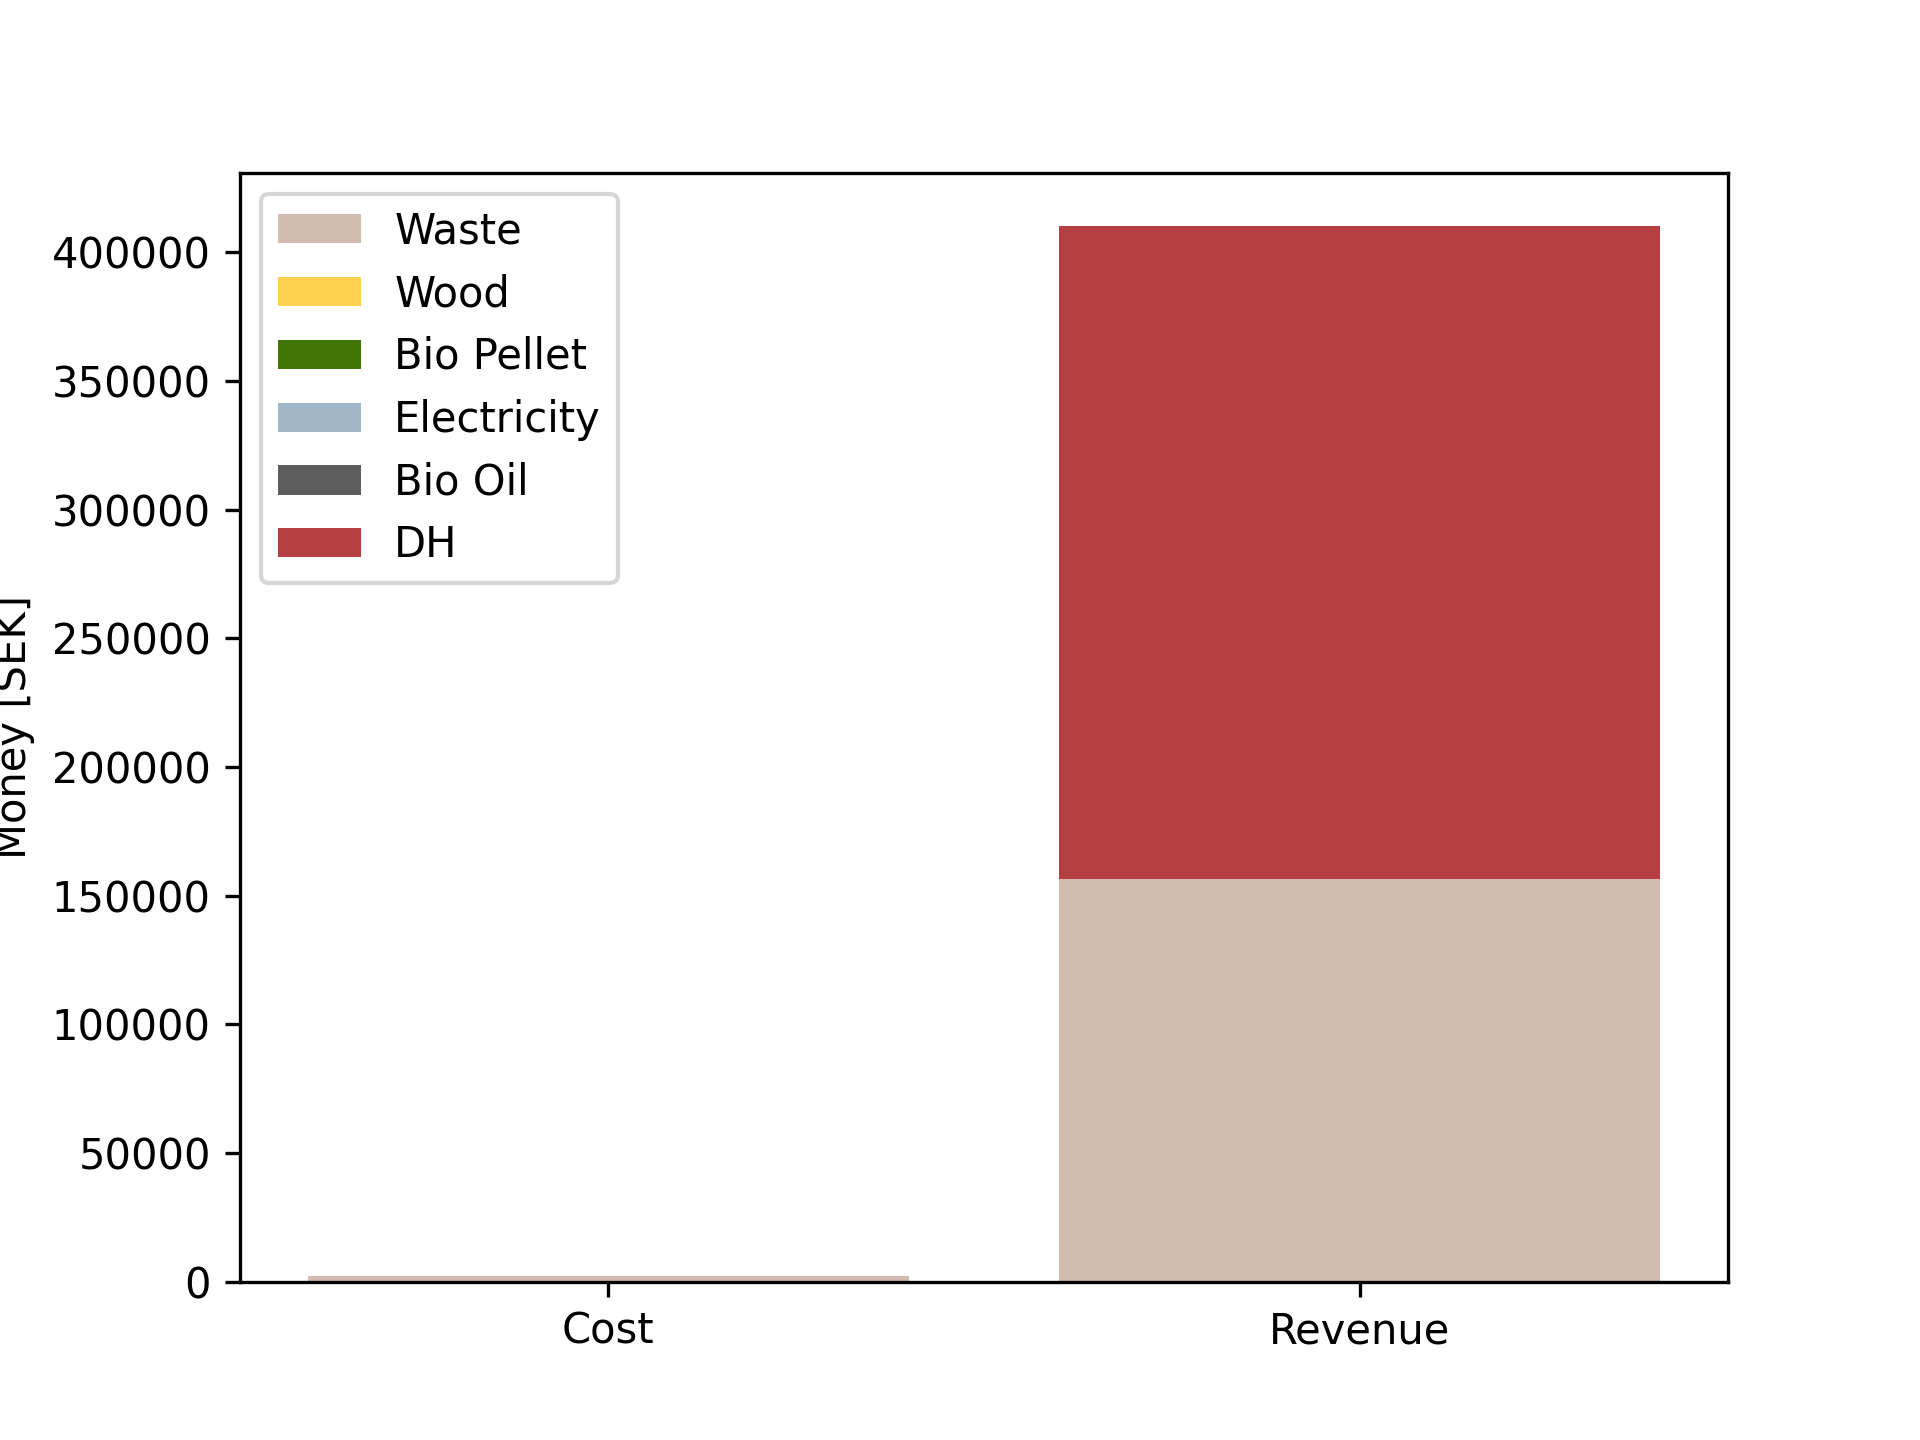
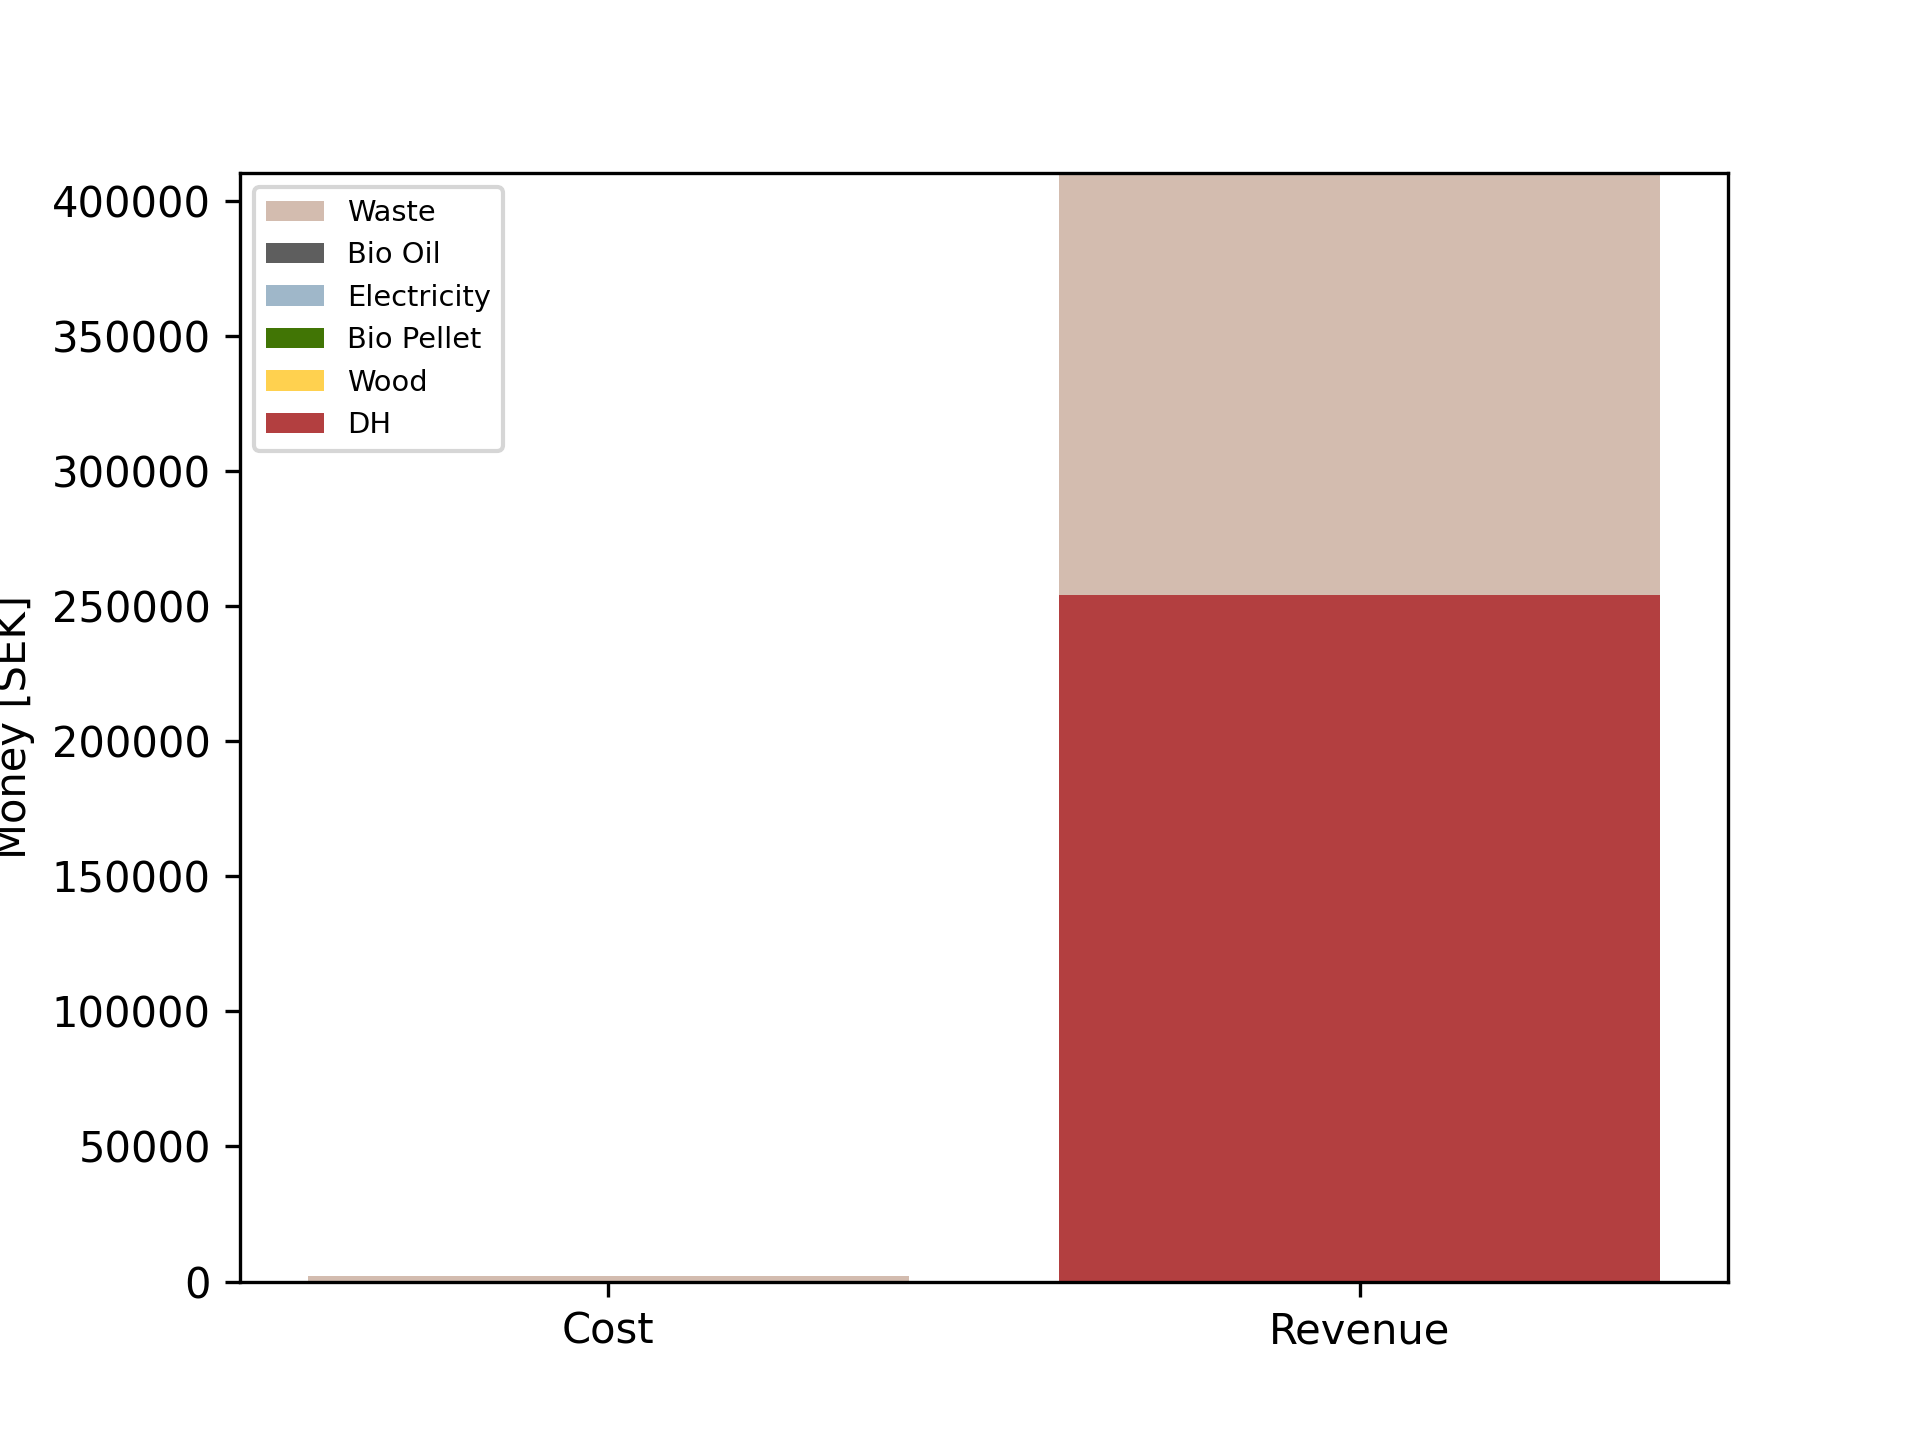
Add price plots, chp_use plots, collect plot results

diff --git a/PRO2/py/plot_results.py b/PRO2/py/plot_results.py
@@ -156,42 +156,94 @@ def plot_cost_revenue(df, electricity_price, plots_folder, save, show):
     wood_revenue = df["Wood_CHP_Electricity_Output_A1[Dim 1][MW]"].multiply(df[spot_label]).sum()
     pellet_revenue = df["Pellet_CHP_Electricity_Output_A2[Dim 1][MW]"].multiply(df[spot_label]).sum()
     dh_revenue = df["Total Load"].multiply(df["DH Price"]).sum()
-    
+
     width = .8
     fig, ax = plt.subplots()
 
     bottom = 0
-    for i, cost in enumerate([waste_cost, wood_cost, pellet_cost, electricity_cost, oil_cost]):
+    # for i, cost in enumerate([waste_cost, wood_cost, pellet_cost, electricity_cost, oil_cost]):
+    costs = sorted(list(zip([waste_cost, wood_cost, pellet_cost, electricity_cost, oil_cost],range(5))),reverse=True)
+    for cost, i in costs:
         ax.bar("Cost", cost, width=width, bottom=bottom, label=labels[i], color=color_map[i])
         bottom += cost
     
     bottom = 0
-    for i, revenue in enumerate([waste_revenue, wood_revenue, pellet_revenue, dh_revenue]):
+    # for i, revenue in enumerate([waste_revenue, wood_revenue, pellet_revenue, dh_revenue]):
+    revenues = sorted(list(zip([waste_revenue, wood_revenue, pellet_revenue, dh_revenue],range(4))),reverse=True)
+    for revenue, i in revenues:
         ax.bar("Revenue", revenue, width=width, bottom=bottom, label=labels[5] if i == 3 else "", color=color_map[5] if i ==3 else color_map[i])
         bottom += revenue
 
     # ax.set_xlabel("Time [%]")
     ax.set_ylabel("Money [SEK]")
-    ax.legend(loc='upper left') #TODO fix double legend entries
+    ax.legend(loc='upper left')
     if save:
         plt.savefig(os.path.join(plots_folder,f"costs_{df[df.columns[0]].iloc[0][0:10]}.png"), dpi=300)
     if show:
         plt.show()
 
 def plot_prices(df, electricity_price, plots_folder, save, show):
-    fig, ax = plt.subplots()
-    ax.plot(df["Time (CEST)"])
+    plt.subplot(111)
+    for i, price in enumerate(["Waste Price", "Wood Price", "Bio Pellet Price", "Retail Price " + electricity_price, "Bio Oil Price", "Spot Price " + electricity_price]):
+        plt.plot(df["Date (CEST)"], df[price], label=price, color=color_map[i])
+    ax = plt.gca()
+    ax.xaxis.set_major_locator(ticker.MultipleLocator(2))
+    ax.xaxis.set_major_formatter(ticker.ScalarFormatter())
+    ax.set_xlim([0,23])
+    ax.set_ylim([0,None])
+    ax.set_xlabel("Time [h]")
+    ax.set_ylabel("Price [SEK/kWh]")
+    plt.legend(bbox_to_anchor=(0, 1, 1, 0), loc="lower left", ncol=3)
     if save:
-        plt.savefig(os.path.join(plots_folder,f"costs_{df[df.columns[0]].iloc[0][0:10]}.png"), dpi=300)
+        plt.savefig(os.path.join(plots_folder,f"prices_{df[df.columns[0]].iloc[0][0:10]}.png"), dpi=300)
     if show:
         plt.show()
 
-def plot(df, electricity_price, show, save):
+def plot_chp_use(df, plots_folder, save, show):
+    y = ["Waste_Turbine_Load_A1[Dim 1][MW]", "Wood_Turbine_Load_A1[Dim 1][MW]", "Pellet_Turbine_Load_A2[Dim 1][MW]",
+        "Waste_BP_Load_A1[Dim 1][MW]", "Wood_BP_Load_A1[Dim 1][MW]", "Pellet_BP_Load_A2[Dim 1][MW]"]
+    fig, axes = plt.subplots(3,1)
+    plt.rc('legend', fontsize="x-small")
+    for i in range(3):
+        axes[i].plot(df["Date (CEST)"], df[y[i]], label=labels[i]+" Turbine", color=color_map[i])
+        axes[i].plot(df["Date (CEST)"], df[y[i+3]], label=labels[i]+" BP", color=color_map[i+3], alpha=0.5)
+        axes[i].xaxis.set_major_locator(ticker.MultipleLocator(2400))
+        axes[i].xaxis.set_major_formatter(ticker.ScalarFormatter())
+        axes[i].set_xlim([-0.5,8760.5])
+        axes[i].set_ylim([0,None])
+        axes[i].set_xlabel("Time [h]")
+        axes[i].set_ylabel("Load [MW]")
+        axes[i].legend(loc='best')
+    plt.tight_layout()
+    if save:
+        plt.savefig(os.path.join(plots_folder,"chp_use.png"), dpi=300)
+    if show:
+        plt.show()
+
+def plot_chp_use_bar(df, plots_folder, save, show):
+    fig, ax = plt.subplots()
+    width = 0.8
+    ax.bar("Waste", df["Waste_Turbine_Load_A1[Dim 1][MW]"].sum(), width=width, label="Turbine", color=color_map[0])
+    ax.bar("Waste", df["Waste_BP_Load_A1[Dim 1][MW]"].sum(), bottom=df["Waste_Turbine_Load_A1[Dim 1][MW]"].sum(), width=width, label="BP", color=color_map[1])
+    ax.bar("Wood", df["Wood_Turbine_Load_A1[Dim 1][MW]"].sum(), width=width, color=color_map[0])
+    ax.bar("Wood", df["Wood_BP_Load_A1[Dim 1][MW]"].sum(), bottom=df["Wood_Turbine_Load_A1[Dim 1][MW]"].sum(), width=width, color=color_map[1])
+    ax.bar("Bio Pellet", df["Pellet_Turbine_Load_A2[Dim 1][MW]"].sum(), width=width, color=color_map[0])
+    ax.bar("Bio Pellet", df["Pellet_BP_Load_A2[Dim 1][MW]"].sum(), bottom=df["Pellet_Turbine_Load_A2[Dim 1][MW]"].sum(), width=width, color=color_map[1])
+    ax.legend(loc='best')
+    ax.set_ylabel("Load [MW]")
+    if save:
+        plt.savefig(os.path.join(plots_folder,"chp_use_bar.png"), dpi=300)
+    if show:
+        plt.show()
+
+def plot(df, electricity_price, save, show):
     plots_folder = "plots_" + electricity_price
     if not os.path.exists(plots_folder):
             os.makedirs(plots_folder)
     # Plot load duration curve
     plot_load_duration_stackplot(df, plots_folder, save, show)
+    plot_chp_use(df, plots_folder, save, show)
+    plot_chp_use_bar(df, plots_folder, save, show)
 
     # Plot special days
     day_start_ids = [1392, 4727, 7968, 2255]
@@ -202,3 +254,4 @@ def plot(df, electricity_price, show, save):
         # Create a plot of subplots
         create_subplots(df_day, electricity_price, plots_folder, save, show)
         plot_cost_revenue(df_day, electricity_price, plots_folder, save, show)
+        plot_prices(df_day, electricity_price, plots_folder, save, show)

diff --git a/PRO2/post_process.py b/PRO2/post_process.py
@@ -8,7 +8,7 @@ if __name__ == "__main__":
     show_plots = False
     save_plots = True
 
-    electricity_price = "0"   # 0: normal price, P25: higher price, M25: lower price
+    electricity_price = "M25"   # 0: normal price, P25: higher price, M25: lower price
     if electricity_price == "0":
         result_file = os.path.join("bofit_results","Scenario_Step1_consolidated.csv")
     elif electricity_price == "P25":
@@ -16,5 +16,5 @@ if __name__ == "__main__":
     elif electricity_price == "M25":
         result_file = os.path.join("bofit_results","Scenario_Step2_M25_consolidated.csv")
         
-    df = extend.extend(result_file, save=save_merged_results)    
-    plot.plot(df, electricity_price, show=show_plots, save=save_plots)
+    df = extend.extend(result_file, save_merged_results)    
+    plot.plot(df, electricity_price, save_plots, show_plots)
